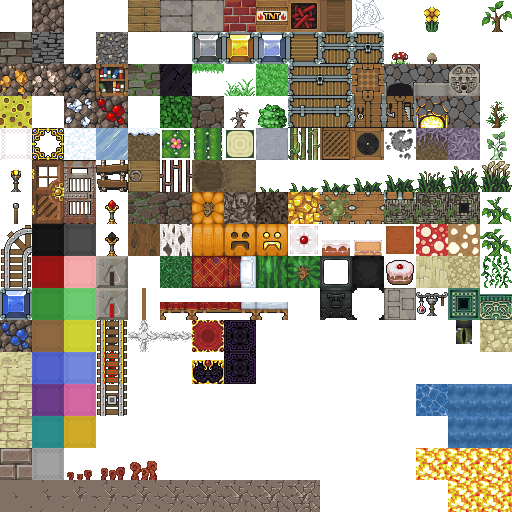
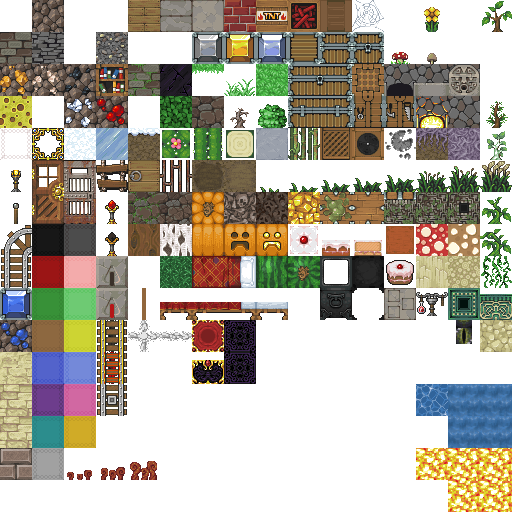
Finished the block break animation

Changed region(s): [[0.0, 0.9375, 0.625, 1.0]]

diff --git a/core/src/com/deepwelldevelopment/spacequest/CameraController.java b/core/src/com/deepwelldevelopment/spacequest/CameraController.java
@@ -277,9 +277,21 @@ public class CameraController extends InputAdapter {
                         breakingPos[2] == breakingBlockPos[2]) { //the same block is being broken
                     Block block = SpaceQuest.getSpaceQuest().getWorld().getBlock(breakingPos[0], breakingPos[1],
                             breakingPos[2]);
-                    if (System.currentTimeMillis() - breakStart >= block.getHardness() / 0.5f * 1000) {
+                    long passedTime = System.currentTimeMillis() - breakStart;
+                    if (passedTime >= block.getHardness() / 0.5f * 1000) {
                         SpaceQuest.getSpaceQuest().getWorld().setBlock(breakingPos[0], breakingPos[1], breakingPos[2],
                                 BlockProvider.air, false);
+                    } else { //update break state
+                        float breakTime = block.getHardness() / 0.5f * 1000;
+                        float stateTime = breakTime / 11;
+                        int i = 0;
+                        while (passedTime > stateTime) {
+                            passedTime -= stateTime;
+                            i++;
+                        }
+                        System.out.println(i);
+                        SpaceQuest.getSpaceQuest().getWorld().updateBreakState(breakingPos[0], breakingPos[1], breakingPos[2], i);
+
                     }
                 } else {
                     breakStart = System.currentTimeMillis();
@@ -290,7 +302,7 @@ public class CameraController extends InputAdapter {
         timeLastBlockChange = System.currentTimeMillis();
         int[] temp = physicsController.rayPick(-1);
         if (temp != null) {
-            SpaceQuest.getSpaceQuest().getWorld().updateBreakState(temp[0], temp[1], temp[2], 4);
+//            SpaceQuest.getSpaceQuest().getWorld().updateBreakState(temp[0], temp[1], temp[2], 4);
         }
     }
 

diff --git a/core/src/com/deepwelldevelopment/spacequest/block/Block.java b/core/src/com/deepwelldevelopment/spacequest/block/Block.java
@@ -36,7 +36,7 @@ public class Block {
         this.isLightSource = false;
         this.tileColor = Color.WHITE;
         this.collidable = true;
-        this.hardness = 1.0f;
+        this.hardness = 5.0f;
     }
 
     public Block(byte id, String textureRegion) {
